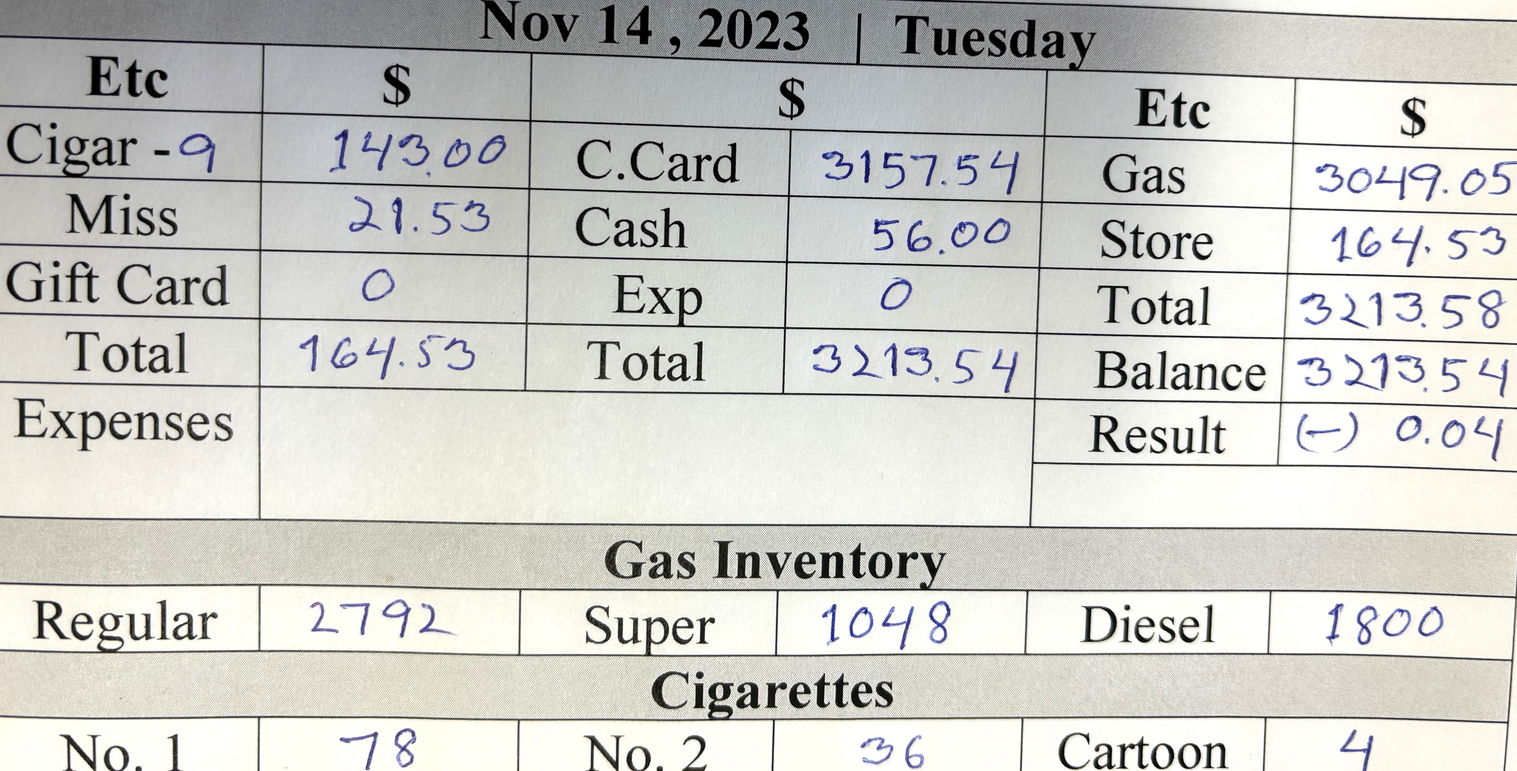
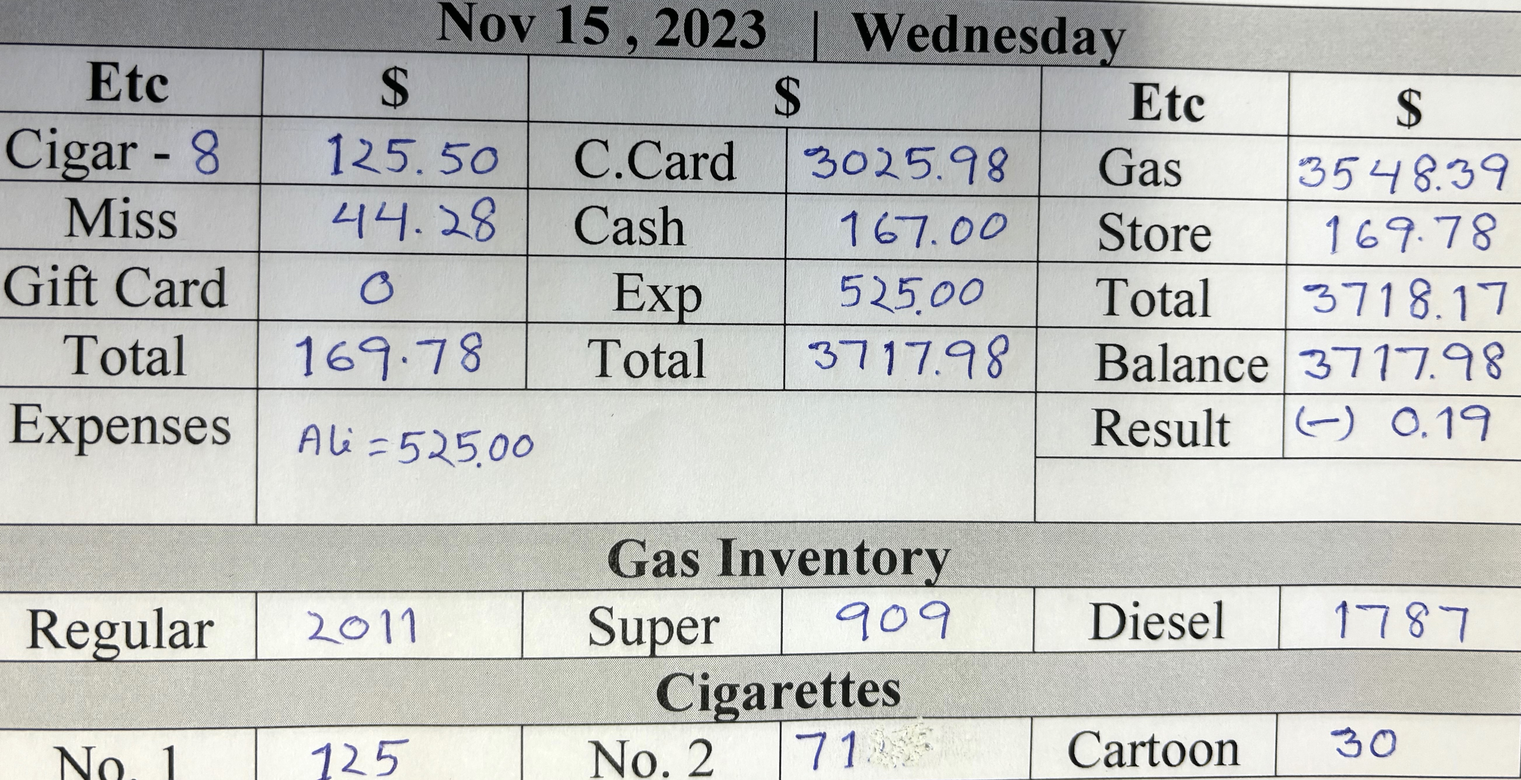
15 done

diff --git a/card.html b/card.html
@@ -67,7 +67,7 @@
         </h5>
           <p class="card-text"></p>
           <p class="card-text"><small class="text-muted"></small></p>
-        <img src="14.jpg" class="card-img-top text-danger text-center fw-bolder fs-3"   alt="Call Rashid ">
+        <img src="15.jpg" class="card-img-top text-danger text-center fw-bolder fs-3"   alt="Call Rashid ">
         <div class="card-body">
           <h5 class="card-title"></h5>
           <p class="card-text"></p>
@@ -78,13 +78,13 @@
         <h5 class="card-title text-center pt-4 m-0">
           <button class="p-1 rounded-3" type="button"><a title="Click Me"
              class="text-primary fw-bolder text-decoration-none " href="index.html">
-             Nov 13,2023
+             Nov 14,2023
           </a>
           </button>
         </h5>
           <p class="card-text"></p>
           <p class="card-text"><small class="text-muted"></small></p>
-        <img src="13.jpg" class="card-img-top text-center text-bg-danger" 
+        <img src="14.jpg" class="card-img-top text-center text-bg-danger" 
         alt="Not Done">
         <div class="card-body">
           <h5 class="card-title"></h5>
@@ -96,13 +96,13 @@
         <h5 class="card-title text-center pt-4 m-0 ">
           <button class="p-1 rounded-3" type="button"><a title="Click Me" 
             class="text-primary fw-bolder text-decoration-none " href="index.html">
-            Nov 12,2023          
+            Nov 13,2023          
           </a>
           </button>
           </h5>
           <p class="card-text"></p>
           <p class="card-text"><small class="text-muted"></small></p>
-        <img src="12.jpg" class="card-img-top text-center text-bg-danger" 
+        <img src="13.jpg" class="card-img-top text-center text-bg-danger" 
         alt="Not Done">
         <div class="card-body">
           <h5 class="card-title"></h5>
@@ -115,13 +115,13 @@
         <h5 class="card-title text-center pt-4 m-0 ">
           <button class="p-1 rounded-3" type="button"><a title="Click Me" 
             class="text-primary fw-bolder text-decoration-none " href="index.html">
-             Nov 11,2023
+             Nov 12,2023
             </a>
           </button>
           </h5>
           <p class="card-text"></p>
           <p class="card-text"><small class="text-muted"></small></p>
-        <img title="Pic" src="11.jpg" class="card-img-top  text-bg-danger fw-bolder text-center"
+        <img title="Pic" src="12.jpg" class="card-img-top  text-bg-danger fw-bolder text-center"
          alt="Already Done">
         <div class="card-body">
           <h5 class="card-title"></h5>

diff --git a/cigarettes.html b/cigarettes.html
@@ -91,7 +91,7 @@
             type="button"
             class="btn btn-danger fw-bolder"
           >
-            Total : { 4 } Carton on Hand in Store
+            Total : { 35 } Carton on Hand in Store
           </button>
         </h3>
       </div>
@@ -139,6 +139,10 @@
                     <!-- <span class="text-danger m-lg-3">6.</span>Merit blue : 1
                     carton -->
                   </p>
+                  <!-- <ol>
+                    <li></li>
+                    <li></li>
+                  </ol> -->
                 </td>
               </tr>
             </tbody>
@@ -158,7 +162,7 @@
                 class="text-decoration-none text-primary fw-bolder"
                 href="index.html"
               >
-                Date : Oct , 2023
+                Date : Nov , 2023
                 <!-- <div class="time"></div>
                     <div class="date"></div> -->
               </a>
@@ -167,9 +171,9 @@
           <p class="card-text"></p>
           <p class="card-text"><small class="text-muted"></small></p>
           <img
-            src="oct.jpg"
+            src="nov.jpg"
             class="card-img-top text-danger text-center fw-bolder fs-3"
-            alt="Call Rashid "
+            alt="Not Done "
           />
           <div class="card-body">
             <h5 class="card-title"></h5>
@@ -185,14 +189,14 @@
                 class="text-primary fw-bolder text-decoration-none"
                 href="index.html"
               >
-                Date : Sep , 2023
+                Date : Oct , 2023
               </a>
             </button>
           </h5>
           <p class="card-text"></p>
           <p class="card-text"><small class="text-muted"></small></p>
           <img
-            src="sep.jpg"
+            src="oct.jpg"
             class="card-img-top text-center text-bg-danger"
             alt="Not Done"
           />

diff --git a/index.html b/index.html
@@ -98,7 +98,7 @@
           class="btn btn-secondary fs fw-bold text-uppercase"
         >
          <!-- Exp  :  <span class="text-warning ms-3">rashid : 572 </span> -->
-         Exp  :  <span class="text-warning ms-3">0</span>
+         Exp  :  <span class="text-warning ms-3">ali : 525</span>
          
         </button>
          
